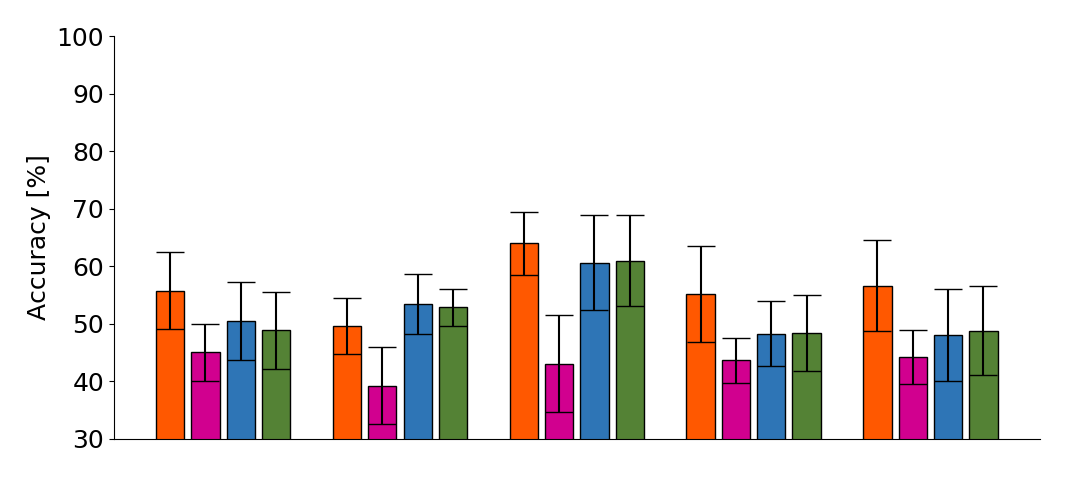
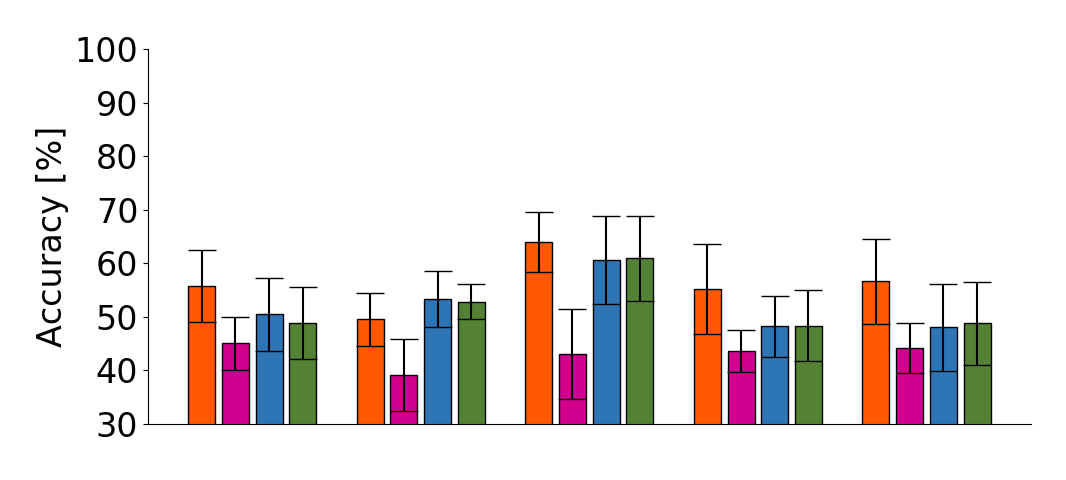
increase font size

diff --git a/Code/Analysis Tools/BarPlotPlotterExtended.py b/Code/Analysis Tools/BarPlotPlotterExtended.py
@@ -213,8 +213,8 @@ def mainTopoPredTestComparisons(performance="Acc", doMainFig=True,
                                       filenameToSave=filenameToSave)
 
 def main():
-    mainDivPredTestComparisons(savePlotFolder="Results/MainFigures/Fig 2 alternative/")
-    mainTopoPredTestComparisons(savePlotFolder="Results/MainFigures/Fig 3 alternative/")
+    mainDivPredTestComparisons(savePlotFolder="Results/MainFigures/Fig 2 alternative/", fontSize=24)
+    mainTopoPredTestComparisons(savePlotFolder="Results/MainFigures/Fig 3 alternative/", fontSize=24)
 
 if __name__ == '__main__':
     main()
